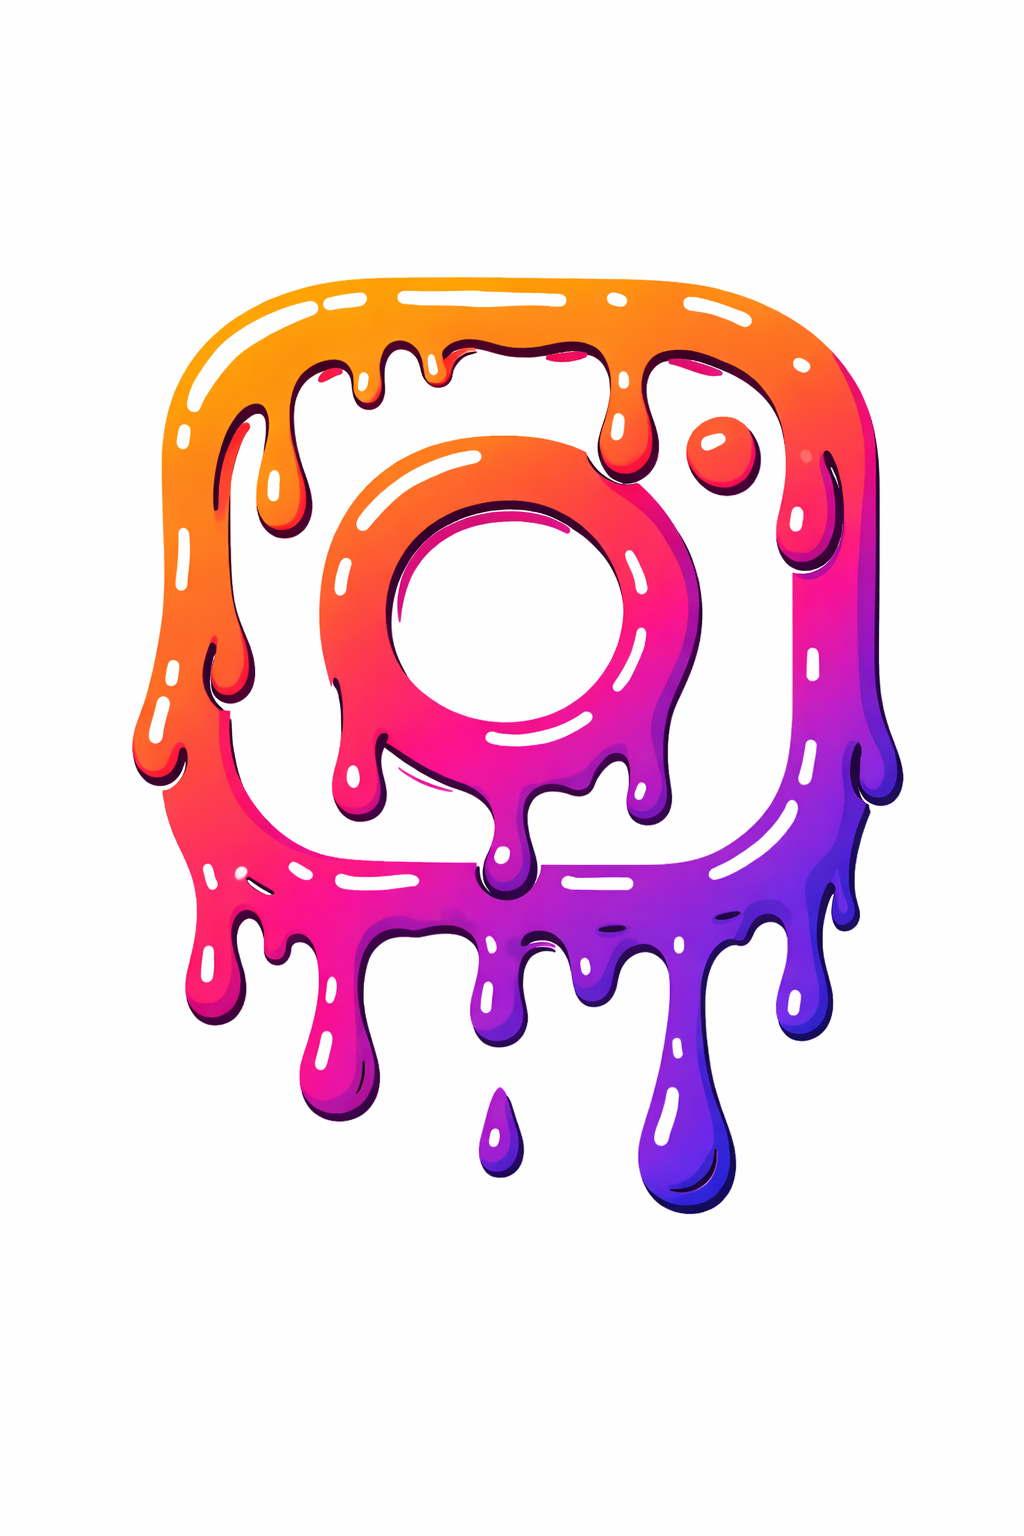
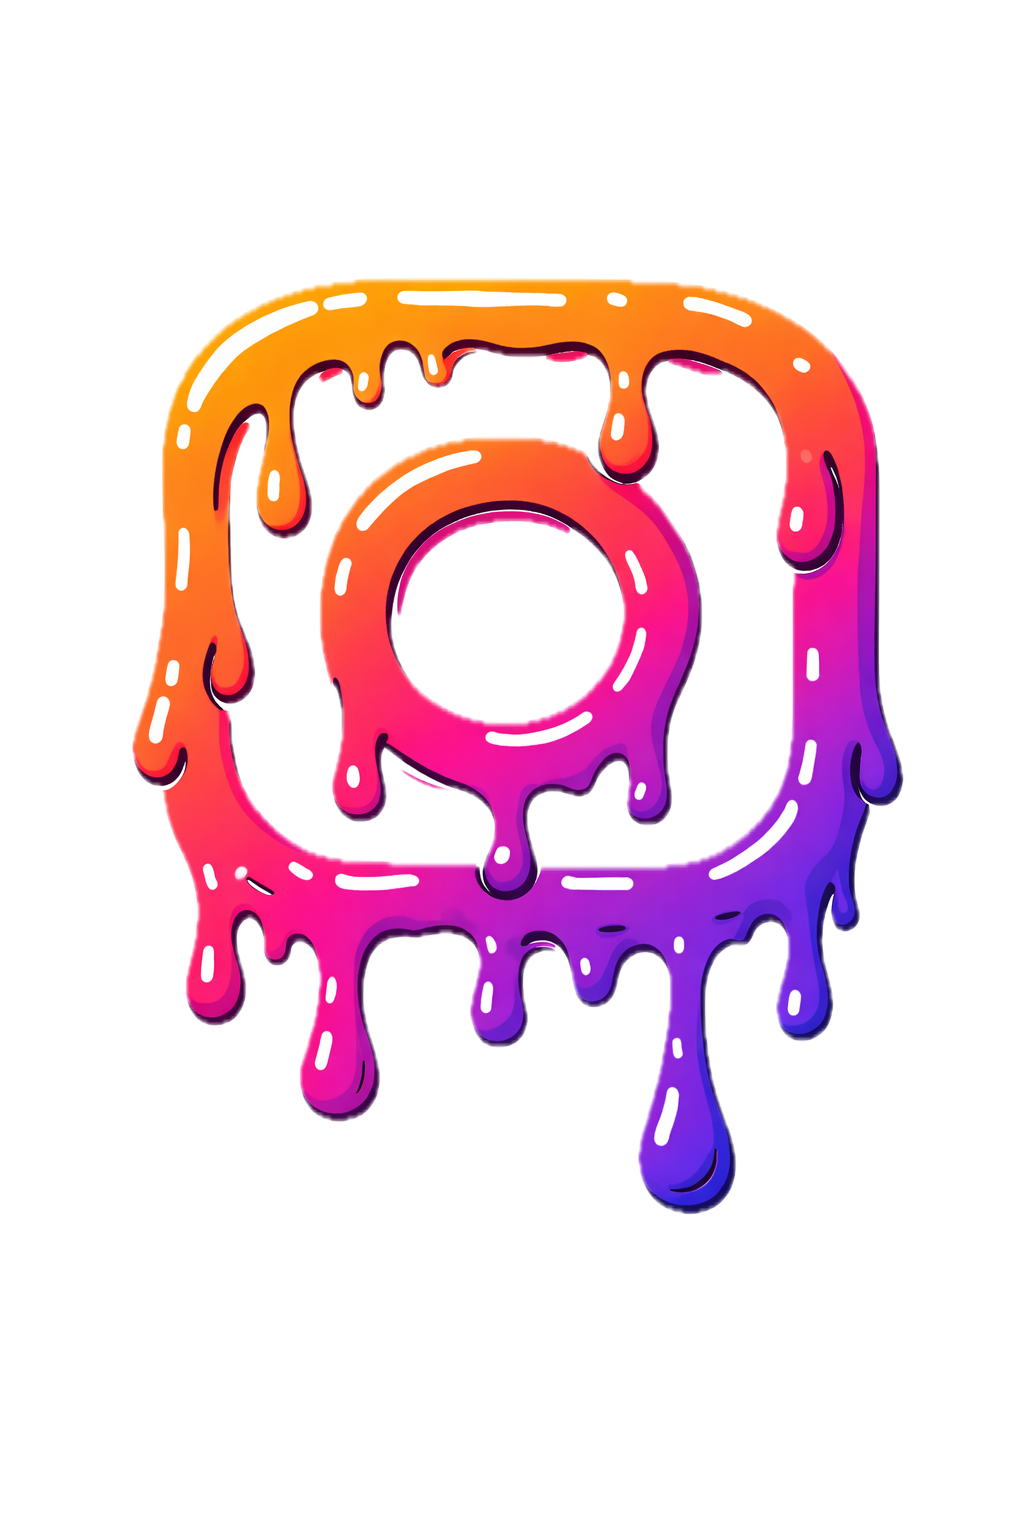
fix: align blog cards and polish contact/header visuals
Make blog cards and media heights consistent with swipe + arrow navigation, adjust social and logo positioning, restore Yandex map key fallback, and stretch the contacts store card to a full-width layout.

Made-with: Cursor

diff --git a/src/components/Header.jsx b/src/components/Header.jsx
@@ -121,7 +121,7 @@ export default function Header() {
               {scrolled ? (
                 <span className="logo-compact">
                   <span className="logo-img-ring">
-                    <img src="/logo.png?v=4" alt="Облако пара" className="logo-img" />
+                    <img src="/logo.png?v=5" alt="Облако пара" className="logo-img" />
                   </span>
                   <span className="logo-text">
                     <span className="logo-brand">Облако пара</span>
@@ -131,7 +131,7 @@ export default function Header() {
               ) : (
                 <span className="logo-compact logo-expanded">
                   <span className="logo-img-ring">
-                    <img src="/logo.png?v=4" alt="Облако пара" className="logo-img" />
+                    <img src="/logo.png?v=5" alt="Облако пара" className="logo-img" />
                   </span>
                   <span className="logo-text">
                     <span className="logo-brand">Облако пара</span>

diff --git a/src/pages/Blog.jsx b/src/pages/Blog.jsx
@@ -7,6 +7,12 @@ import './Blog.css';
 export default function Blog() {
   const listRef = useRef(null);
   const dragRef = useRef({ active: false, startX: 0, startScroll: 0 });
+  const scrollByCards = (direction) => {
+    const el = listRef.current;
+    if (!el) return;
+    const amount = Math.max(280, Math.floor(el.clientWidth * 0.8));
+    el.scrollBy({ left: direction * amount, behavior: 'smooth' });
+  };
 
   const onPointerDown = (event) => {
     const el = listRef.current;
@@ -43,6 +49,10 @@ export default function Blog() {
       <div className="blog-header">
         <h1>Блог</h1>
         <p>Новости и статьи о вейпинге</p>
+        <div className="blog-controls">
+          <button type="button" className="blog-scroll-btn" onClick={() => scrollByCards(-1)} aria-label="Листать блог влево">‹</button>
+          <button type="button" className="blog-scroll-btn" onClick={() => scrollByCards(1)} aria-label="Листать блог вправо">›</button>
+        </div>
       </div>
 
       <div

diff --git a/src/pages/Blog.css b/src/pages/Blog.css
@@ -8,6 +8,23 @@
   margin-bottom: 48px;
 }
 
+.blog-controls {
+  margin-top: 16px;
+  display: flex;
+  gap: 10px;
+}
+
+.blog-scroll-btn {
+  width: 34px;
+  height: 34px;
+  border-radius: 999px;
+  border: 1px solid #d1d5db;
+  background: #fff;
+  font-size: 22px;
+  line-height: 1;
+  cursor: pointer;
+}
+
 .blog-header h1 {
   font-size: 32px;
   color: #1a1a1a;
@@ -44,12 +61,12 @@
   overflow: hidden;
   text-decoration: none;
   color: inherit;
-  min-height: 460px;
+  height: 470px;
   scroll-snap-align: start;
 }
 
 .blog-item-image {
-  aspect-ratio: 16/10;
+  height: 220px;
   overflow: hidden;
 }
 
@@ -100,6 +117,10 @@
 }
 
 @media (max-width: 700px) {
+  .blog-controls {
+    justify-content: center;
+  }
+
   .blog-list {
     grid-auto-columns: 84vw;
   }

diff --git a/src/pages/Contacts.css b/src/pages/Contacts.css
@@ -1,5 +1,5 @@
 .contacts-page {
-  max-width: 1000px;
+  max-width: 1200px;
   margin: 0 auto;
   padding: 40px 20px 80px;
 }
@@ -99,18 +99,17 @@
 }
 
 .contacts-stores {
-  display: grid;
-  grid-template-columns: repeat(auto-fill, minmax(320px, 1fr));
-  gap: 24px;
+  display: block;
 }
 
 .contact-store-card {
   display: grid;
-  grid-template-columns: 1fr 1fr;
+  grid-template-columns: minmax(300px, 42%) 1fr;
   background: #fff;
   border-radius: 12px;
   overflow: hidden;
   border: 1px solid #eee;
+  width: 100%;
 }
 
 .contact-store-image {
@@ -125,10 +124,11 @@
 }
 
 .contact-store-info {
-  padding: 24px;
+  padding: 30px 32px;
   display: flex;
   flex-direction: column;
   justify-content: center;
+  gap: 8px;
 }
 
 .contact-store-address {

diff --git a/src/components/YandexShopMap.jsx b/src/components/YandexShopMap.jsx
@@ -2,13 +2,13 @@ import { useEffect, useRef } from 'react';
 
 const LAT = 54.508801;
 const LNG = 30.426632;
-const LOGO_MARKER = '/logo.png?v=4';
+const LOGO_MARKER = '/logo.png?v=5';
 
 export default function YandexShopMap({ className = '' }) {
   const containerRef = useRef(null);
   const mapRef = useRef(null);
 
-  const apiKey = import.meta.env.VITE_YANDEX_MAPS_API_KEY;
+  const apiKey = import.meta.env.VITE_YANDEX_MAPS_API_KEY || 'f8c58dc8-6b2e-4cdd-8e8f-9651f318eba0';
 
   useEffect(() => {
     if (!apiKey || !containerRef.current) return undefined;

diff --git a/src/components/Footer.jsx b/src/components/Footer.jsx
@@ -13,7 +13,7 @@ export default function Footer() {
           <div className="footer-brand">
             <div className="footer-brand-row">
               <span className="footer-logo-ring">
-                <img src="/logo.png?v=4" alt="Облако пара" className="footer-logo-img" />
+                <img src="/logo.png?v=5" alt="Облако пара" className="footer-logo-img" />
               </span>
               <span className="footer-brand-name">Облако пара</span>
             </div>

diff --git a/src/components/Header.css b/src/components/Header.css
@@ -752,8 +752,8 @@
 .logo-img {
   width: 100%;
   height: 100%;
-  object-fit: contain;
-  padding: 3px;
+  object-fit: cover;
+  padding: 0;
 }
 
 .logo-img-full {

diff --git a/src/components/SocialCarousel.css b/src/components/SocialCarousel.css
@@ -51,7 +51,7 @@
 
 .social-card-content {
   position: absolute;
-  bottom: 20px;
+  bottom: 10px;
   left: 20px;
   display: flex;
   align-items: center;
